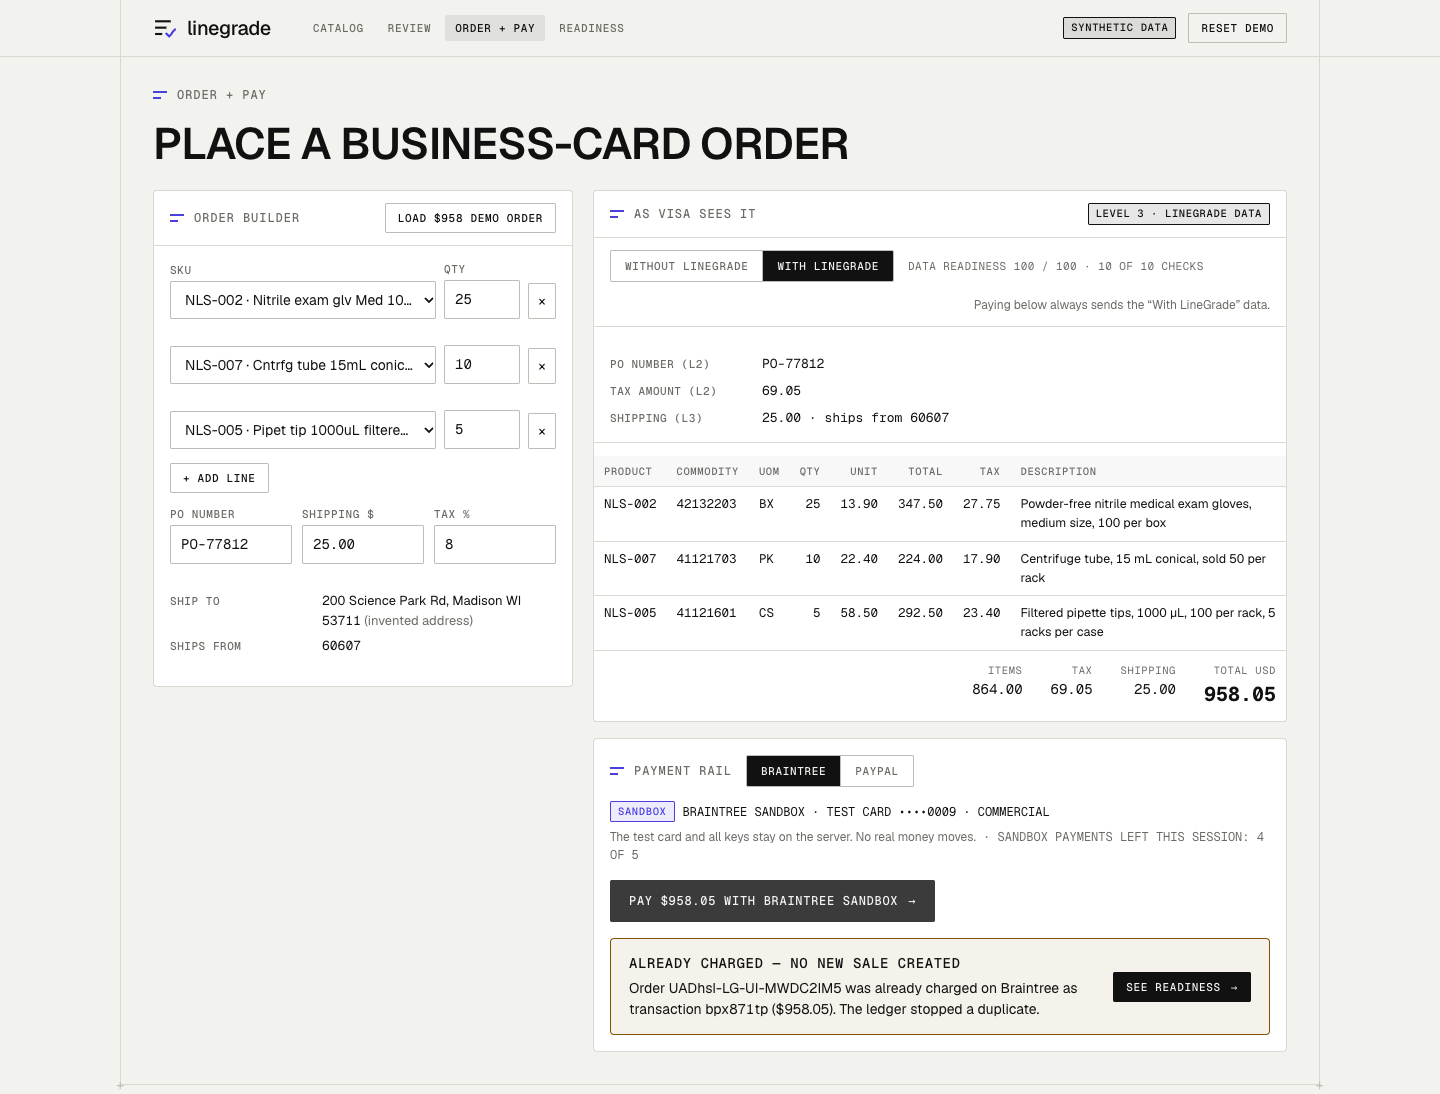
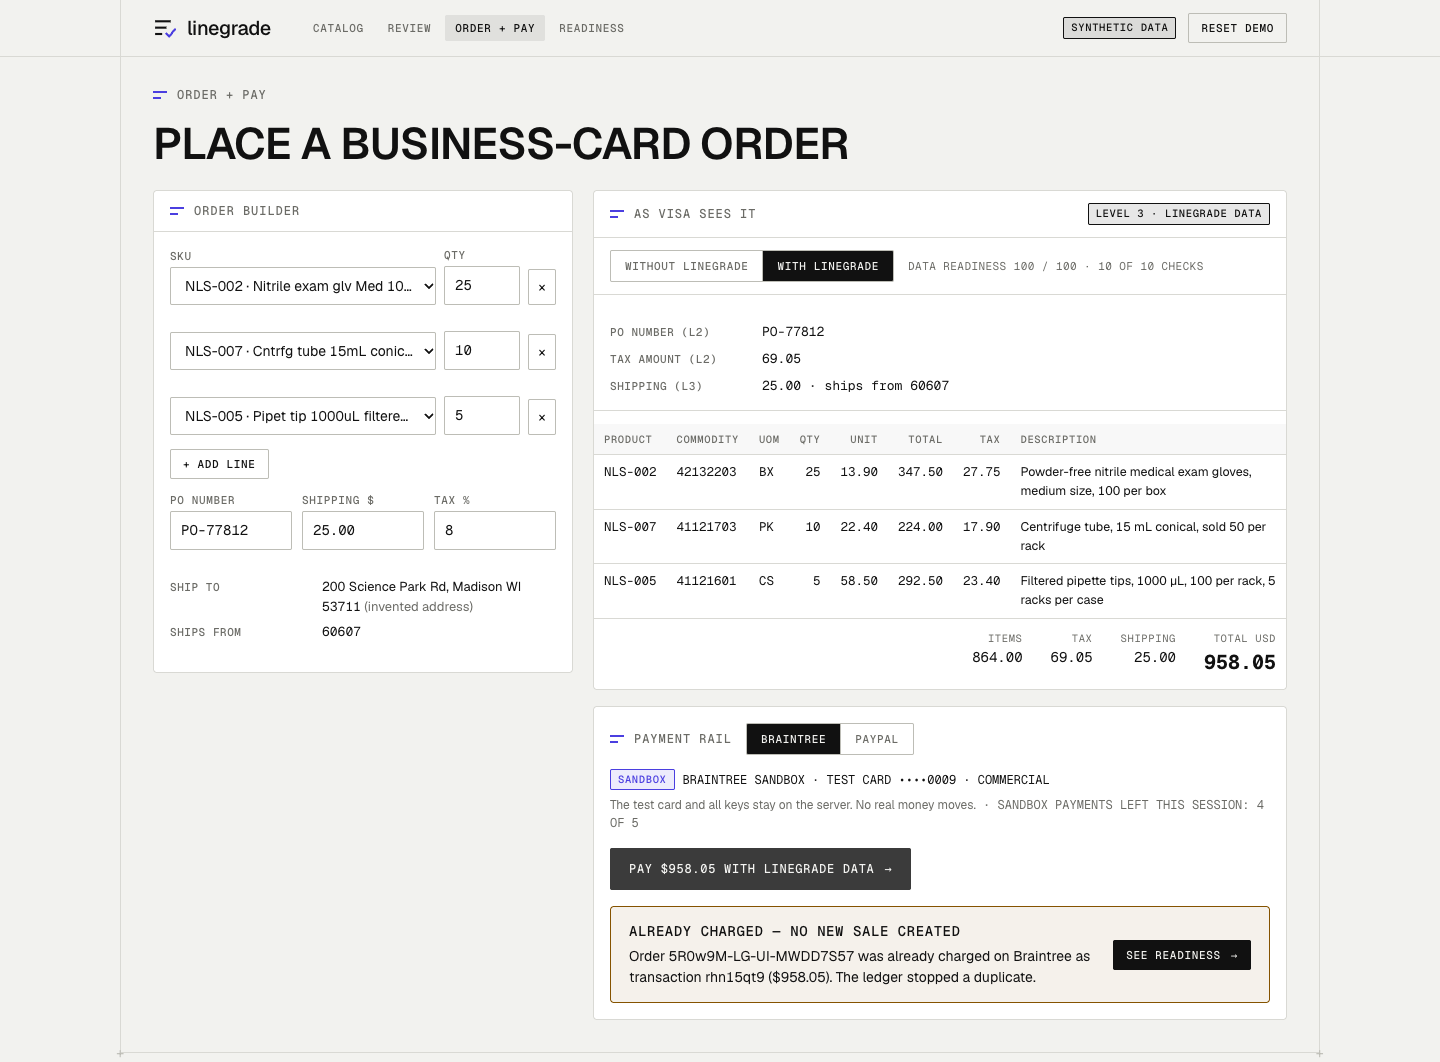
fix(order): keep both charged sales for the side-by-side panel after a duplicate answer; test fixes

diff --git a/web/src/screens/Order.jsx b/web/src/screens/Order.jsx
@@ -189,7 +189,8 @@ export default function Order({ catalog, state, onNext, onReview }) {
   const [preview, setPreview] = useState(null);
   const [perr, setPerr] = useState(null);
   const [orderId, setOrderId] = useState(null);
-  const [sales, setSales] = useState({ 1: null, 3: null }); // the Level 1 and the LineGrade sale of the current order
+  const [sales, setSales] = useState({ 1: null, 3: null }); // the latest result shown for the Level 1 and the LineGrade sale of the current order
+  const [charged, setCharged] = useState({ 1: null, 3: null }); // the sales that really went through (a later duplicate answer must not hide them)
   const [paying, setPaying] = useState(false);
   const railOn = !!state?.limits?.rails?.paypal; // the PayPal rail only exists when the server has its credentials
   const [rail, setRail] = useState('braintree');
@@ -215,7 +216,7 @@ export default function Order({ catalog, state, onNext, onReview }) {
   const body = useMemo(() => ({ items: filled, poNumber: po, shipping, taxRatePct: taxPct, rail }), [lines, po, shipping, taxPct, rail]); // eslint-disable-line react-hooks/exhaustive-deps
 
   useEffect(() => {
-    setOrderId(null); setSales({ 1: null, 3: null });
+    setOrderId(null); setSales({ 1: null, 3: null }); setCharged({ 1: null, 3: null });
     if (!body.items.length || problems.length) { setPreview(null); setPerr(null); return undefined; }
     const t = setTimeout(async () => {
       try { setPreview(await api.preview(body)); setPerr(null); } catch (e) { setPreview(null); setPerr(e.message); }
@@ -225,7 +226,7 @@ export default function Order({ catalog, state, onNext, onReview }) {
 
   const level = view === 'with' ? 3 : 1; // paying sends what the selected view shows
   const result = sales[level];
-  const setResult = (r) => setSales((x) => ({ ...x, [level]: r }));
+  const setResult = (r) => { setSales((x) => ({ ...x, [level]: r })); if (r && r.outcome === 'charged') setCharged((x) => ({ ...x, [level]: r })); };
   const pay = async (again) => {
     const id = again && orderId ? orderId : (orderId || newOrderId());
     setOrderId(id); setPaying(true); setResult(null);
@@ -370,7 +371,7 @@ export default function Order({ catalog, state, onNext, onReview }) {
           </div>
 
           {paid && result.level !== 1 && <ReadBack result={result} />}
-          {sales[1]?.outcome === 'charged' && sales[3]?.outcome === 'charged' && <SameOrderTwoWays l1={sales[1]} l3={sales[3]} before={preview?.validation?.before} />}
+          {charged[1] && charged[3] && <SameOrderTwoWays l1={charged[1]} l3={charged[3]} before={preview?.validation?.before} />}
         </div>
       </div>
     </section>

diff --git a/scripts/screenshots.js b/scripts/screenshots.js
@@ -97,10 +97,11 @@ async function main() {
   check('Review: header count reads "ALL REVIEWED ✓" at 0 left', /ALL REVIEWED ✓/.test(await page.getByTestId('left-count').innerText()));
   await shot('08-review-approved-visible.png');
   await page.getByRole('button', { name: 'Needs review', exact: true }).click();
+  await page.waitForFunction(() => document.querySelectorAll('.ag-row[row-id]').length === 0, null, { timeout: 4000 }).catch(() => {});
   check('Review: switching the filter to "Needs review" hides the handled rows', (await page.locator('.ag-row[row-id]').count()) === 0);
   await page.getByRole('button', { name: 'All', exact: true }).click();
   await page.waitForSelector('.ag-row');
-  check('Review: filter "All" shows the whole catalog', (await page.evaluate(() => new Set([...document.querySelectorAll('.ag-row[row-id]')].map((r) => r.getAttribute('row-id'))).size)) >= 30);
+  check('Review: filter "All" shows the whole catalog', /40 ROWS SHOWN/.test(await page.locator('section .mono.muted', { hasText: 'ROWS SHOWN' }).first().innerText()));
   check('Review: completion banner appears', await page.locator('.banner', { hasText: 'ALL FLAGGED ROWS REVIEWED' }).isVisible());
   await shot('03b-review-all-approved.png');
 
